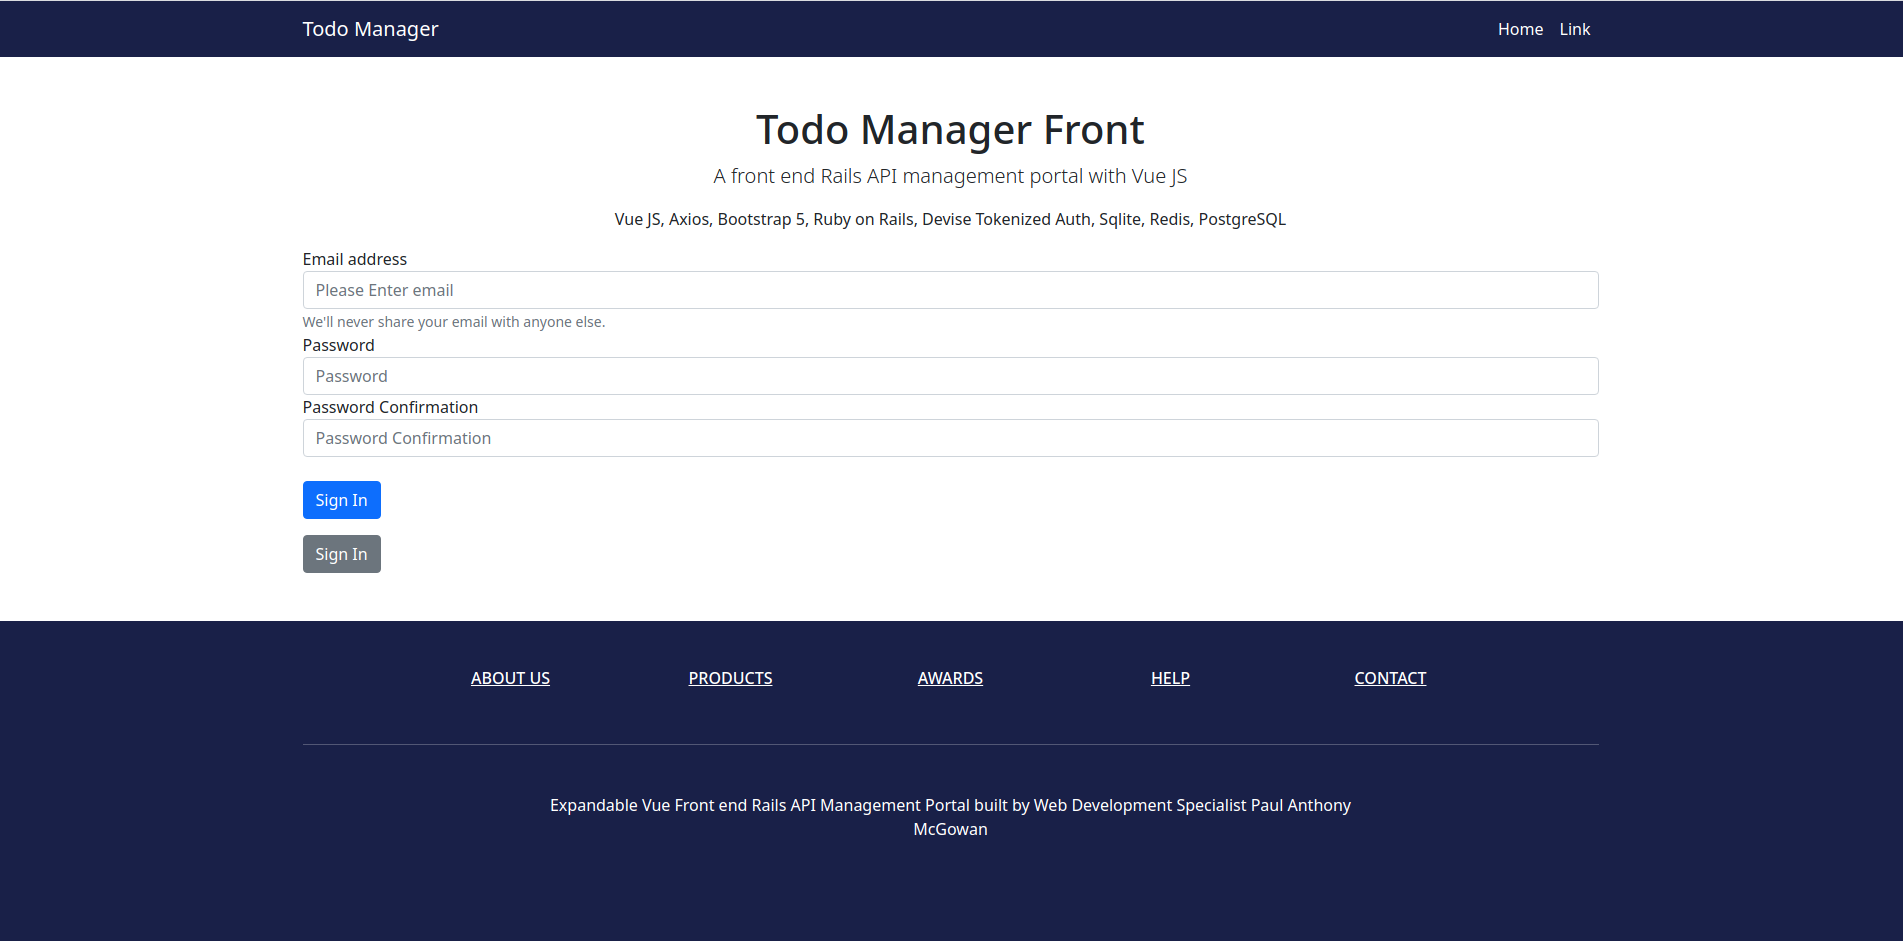
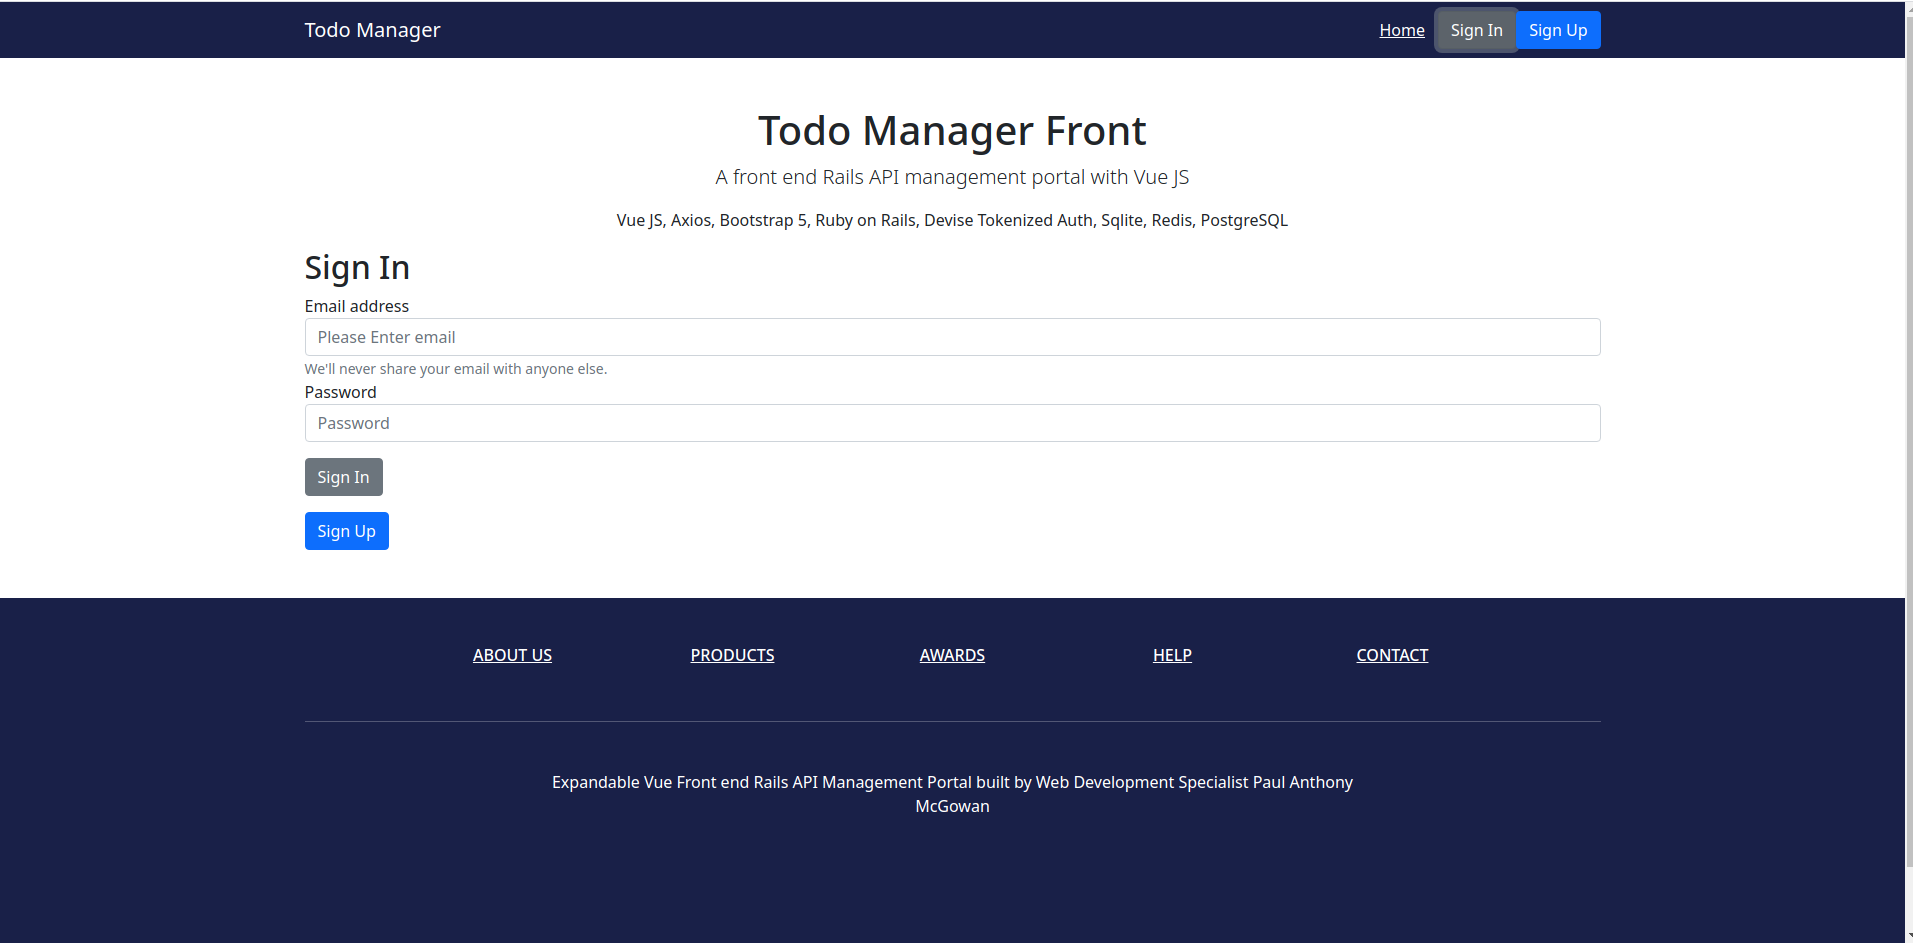
Forms

diff --git a/todo-manager/src/components/Signin.vue b/todo-manager/src/components/Signin.vue
@@ -1,6 +1,7 @@
 <template>
  <div class="container">
-    <form @submit.prevent="signin">
+   <h2>Sign In</h2>
+    <form @submit.prevent="signin()">
   <div class="form-group">
     <div class="alert alert-danger" v-if="error">{{ error}}</div>
     <label for="InputEmail1">Email address</label>
@@ -11,14 +12,9 @@
     <label for="password">Password</label>
     <input type="password" v-model="password" class="form-control" id="password" placeholder="Password">
   </div>
-    <div class="form-group">
-    <label for="password-confirmation">Password Confirmation</label>
-    <input type="password" v-model="password_confirmation" class="form-control" id="password-confirmation" placeholder="Password Confirmation">
-  </div>
-  <br />
-  <button type="submit" class="btn btn-primary">Sign In</button>
+  <button type="submit" class="btn btn-secondary mt-3">Sign In</button>
   <div class="mt-3">
-  <router-link to="/signup" class="btn btn-secondary">Sign In</router-link>
+  <router-link to="/signup" class="btn btn-primary">Sign Up</router-link>
   </div>
 </form>
 </div>
@@ -30,8 +26,7 @@ export default {
         return {
             email: '',
             password: '',
-            password_confirmation,
-            error
+            error: ''
         }
     },
     created () {

diff --git a/todo-manager/src/components/baseHeader.vue b/todo-manager/src/components/baseHeader.vue
@@ -8,8 +8,9 @@
                 <button class="navbar-toggler" type="button" data-bs-toggle="collapse" data-bs-target="#navbarSupportedContent" aria-controls="navbarSupportedContent" aria-expanded="false" aria-label="Toggle navigation"><span class="navbar-toggler-icon"></span></button>
                 <div class="collapse navbar-collapse" id="navbarSupportedContent">
                     <ul class="navbar-nav ms-auto mb-2 mb-lg-0">
-                        <li class="nav-item"><a class="nav-link active" aria-current="page" href="#">Home</a></li>
-                        <li class="nav-item"><a class="nav-link" href="#">Link</a></li>
+                        <li class="nav-item"><router-link to="/" class="btn btn-link">Home</router-link></li>
+                         <li class="nav-item"><router-link to="/" class="btn btn-secondary">Sign In</router-link></li>
+                        <li class="nav-item"><router-link to="/signup" class="btn btn-primary">Sign Up</router-link></li>
                    </ul>
                 </div>
             </div>

diff --git a/todo-manager/src/components/Signup.vue b/todo-manager/src/components/Signup.vue
@@ -1,5 +1,7 @@
+
 <template>
  <div class="container">
+    <h2>Sign Up</h2>
     <form @submit.prevent="signup">
   <div class="form-group">
     <div class="alert alert-danger" v-if="error">{{ error}}</div>
@@ -15,10 +17,9 @@
     <label for="password-confirmation">Password Confirmation</label>
     <input type="password" v-model="password_confirmation" class="form-control" id="password-confirmation" placeholder="Password Confirmation">
   </div>
-  <br />
-  <button type="submit" class="btn btn-primary">Sign Up</button>
+  <button type="submit" class="btn btn-primary mt-3">Sign Up</button>
   <div class="mt-3">
-  <router-link to="/signup" class="btn btn-secondary">Sign In</router-link>
+  <router-link to="/" class="btn btn-secondary">Sign In</router-link>
   </div>
 </form>
 </div>

diff --git a/todo-manager/src/router/index.js b/todo-manager/src/router/index.js
@@ -1,6 +1,7 @@
 import Vue from 'vue'
 import Router from 'vue-router'
 import Signin from '@/components/Signin'
+import Signup from '@/components/Signup'
 
 
 Vue.use(Router)
@@ -11,6 +12,11 @@ export default new Router({
       path: '/',
       name: 'Signin',
       component: Signin
+    },
+    {
+      path: '/signup',
+      name: 'Signup',
+      component: Signup
     }
   ]
 })
